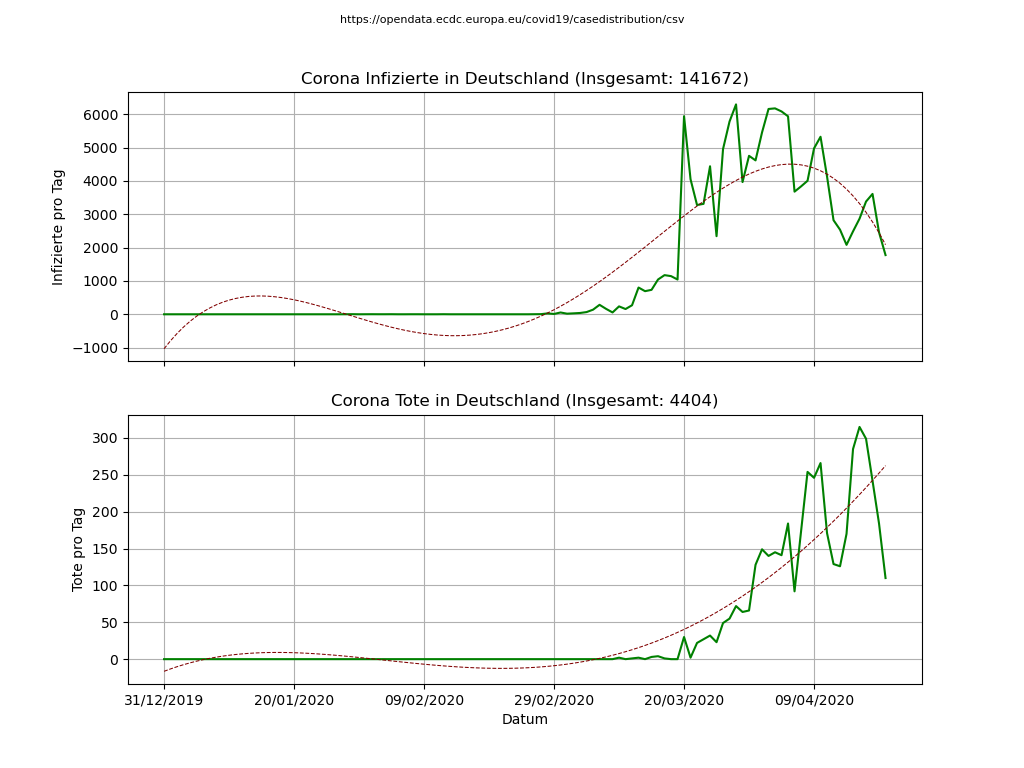
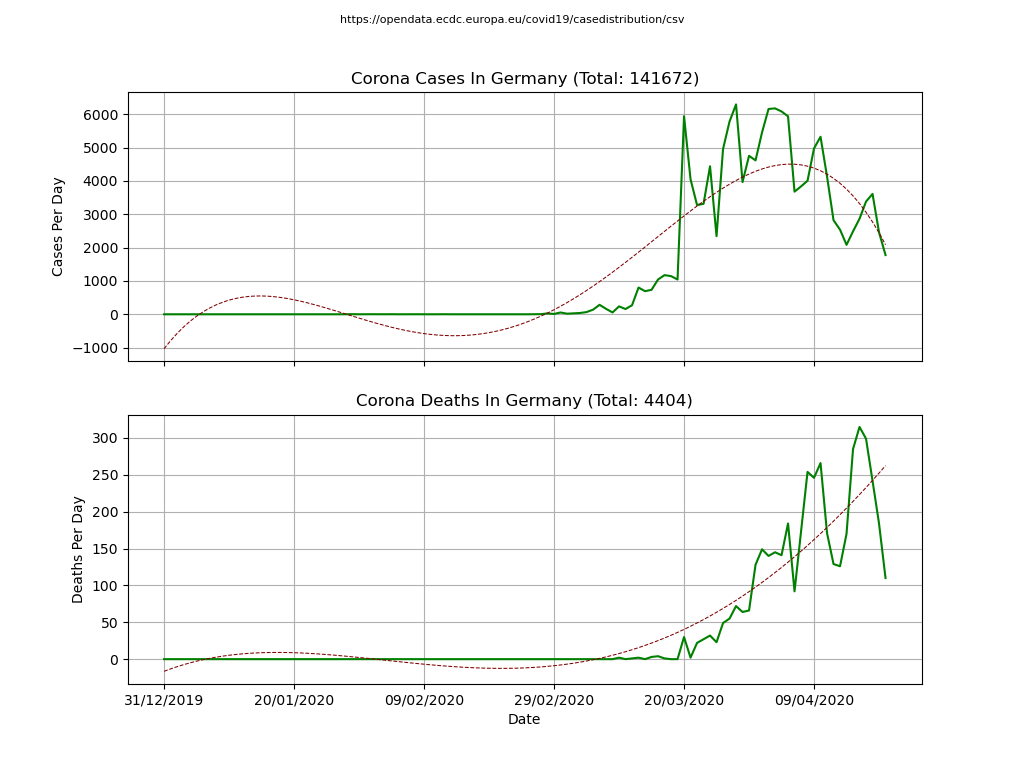
#2 New command line option for country as filter  - new command line option 'country' (default: Germany)  - language of texts changed to English (covid19 countries are in English too)

diff --git a/visualize.py b/visualize.py
@@ -15,6 +15,7 @@
 # DAMAGES OR OTHER LIABILITY,
 # WHETHER IN AN ACTION OF CONTRACT, TORT OR OTHERWISE, ARISING FROM,
 # OUT OF OR IN CONNECTION WITH THE SOFTWARE OR THE USE OR OTHER DEALINGS IN THE SOFTWARE.import os
+import sys
 import os
 import requests
 import click
@@ -28,6 +29,8 @@ import pandas as pd
               help="width in pixels for the image.")
 @click.option('--height', '-h', default=768, type=int, show_default=True,
               help="height in pixels for the image.")
+@click.option('--country', '-c', default='Germany', type=str, show_default=True,
+              help="country as filter for the data")
 def main(**options):
     """Visualizing covid19 data with matplotlib, panda and numpy."""
     always = True
@@ -39,8 +42,24 @@ def main(**options):
             stream.write(response.content)
 
     df = pd.read_csv('covid19.csv')
-    # filter for Germany
-    df_concrete = df[df.countriesAndTerritories.eq('Germany')]
+
+    # searching for the country defined in the options
+    country_filter = options['country'].lower()
+    countries = set(country for country in df['countriesAndTerritories'])
+
+    found = False
+    for pos, country in enumerate(countries):
+        if country.lower() == country_filter:
+            country_filter = country
+            found = True
+            break
+
+    if not found:
+        print("Country '%s' not found!" % options['country'])
+        sys.exit(1)
+
+    # filter for concrete country
+    df_concrete = df[df.countriesAndTerritories.eq(country_filter)]
     # sort by date ascending
     df_concrete = df_concrete.sort_values(by=['year', 'month', 'day'])
     df_concrete = df_concrete.reset_index(drop=True)
@@ -52,24 +71,24 @@ def main(**options):
     DPI = fig.get_dpi()
     fig.set_size_inches(options['width']/float(DPI), options['height']/float(DPI))
 
-    title = 'Corona Infizierte in Deutschland (Insgesamt: %d)' % df_concrete['cases'].sum()
+    title = 'Corona Cases In %s (Total: %d)' % (country_filter, df_concrete['cases'].sum())
     axes = df_concrete.plot(x='dateRep', y='cases', title=title,
                             ax=main_axes[0],
                             kind='line', grid=True, color='#008000', legend=False)
-    axes.set_xlabel('Datum')
-    axes.set_ylabel('Infizierte pro Tag')
+    axes.set_xlabel('Date')
+    axes.set_ylabel('Cases Per Day')
 
     # square polynomial fit for Corona cases
     x = np.arange(df_concrete['dateRep'].values.flatten().shape[0])
     p = np.poly1d(np.polyfit(x, df_concrete['cases'].values.flatten(), 4))
     main_axes[0].plot(x, p(x), linestyle='dashed', linewidth=0.75, color='#800000')
 
-    title = 'Corona Tote in Deutschland (Insgesamt: %d)' % df_concrete['deaths'].sum()
+    title = 'Corona Deaths In %s (Total: %d)' % (country_filter, df_concrete['deaths'].sum())
     axes = df_concrete.plot(x='dateRep', y='deaths', title=title,
                             ax=main_axes[1],
                             kind='line', grid=True, color='#008000', legend=False)
-    axes.set_xlabel('Datum')
-    axes.set_ylabel('Tote pro Tag')
+    axes.set_xlabel('Date')
+    axes.set_ylabel('Deaths Per Day')
 
     # square polynomial fit for Corona deaths
     p = np.poly1d(np.polyfit(x, df_concrete['deaths'].values.flatten(), 4))

diff --git a/README.md b/README.md
@@ -38,9 +38,12 @@ The tool also provides command line options:
 > python visualize.py --help
 Usage: visualize.py [OPTIONS]
 
+  Visualizing covid19 data with matplotlib, panda and numpy.
+
 Options:
-  -w, --width INTEGER   width in pixels for the image  [default: 1024]
-  -h, --height INTEGER  height in pixels for the image  [default: 768]
+  -w, --width INTEGER   width in pixels for the image.  [default: 1024]
+  -h, --height INTEGER  height in pixels for the image.  [default: 768]
+  -c, --country TEXT    country as filter for the data  [default: Germany]
   --help                Show this message and exit.
 ```
 
